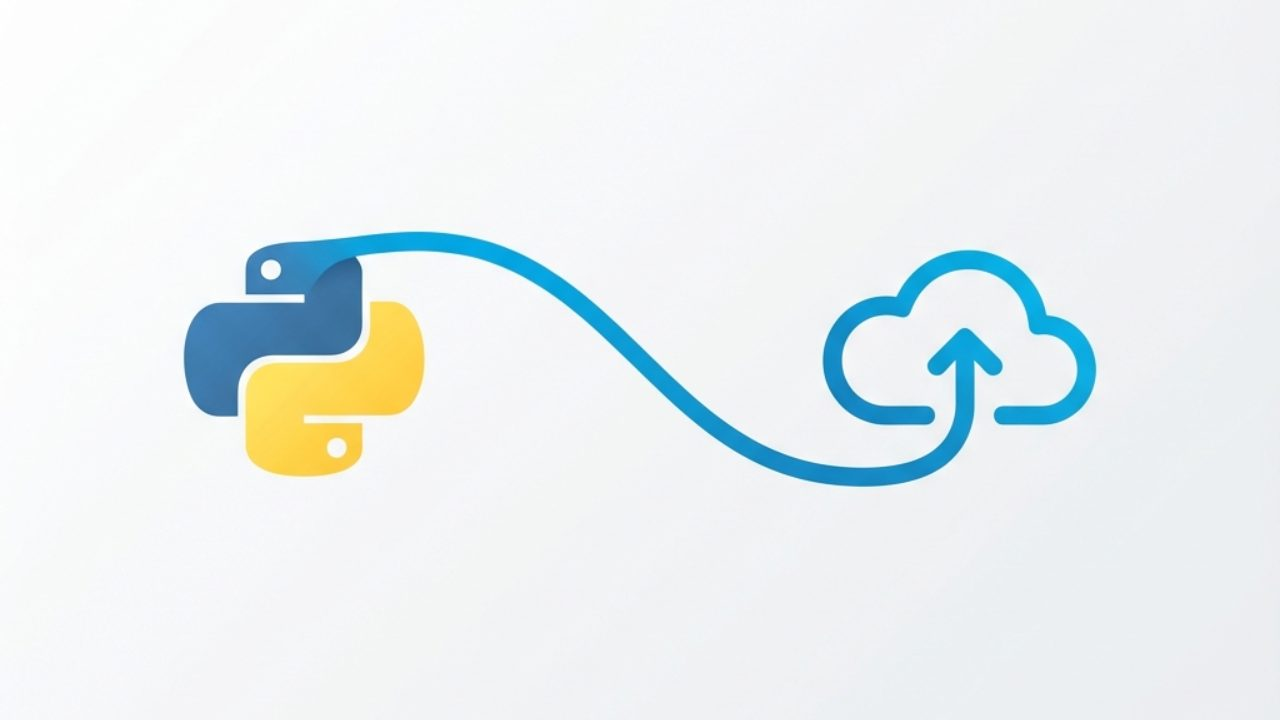
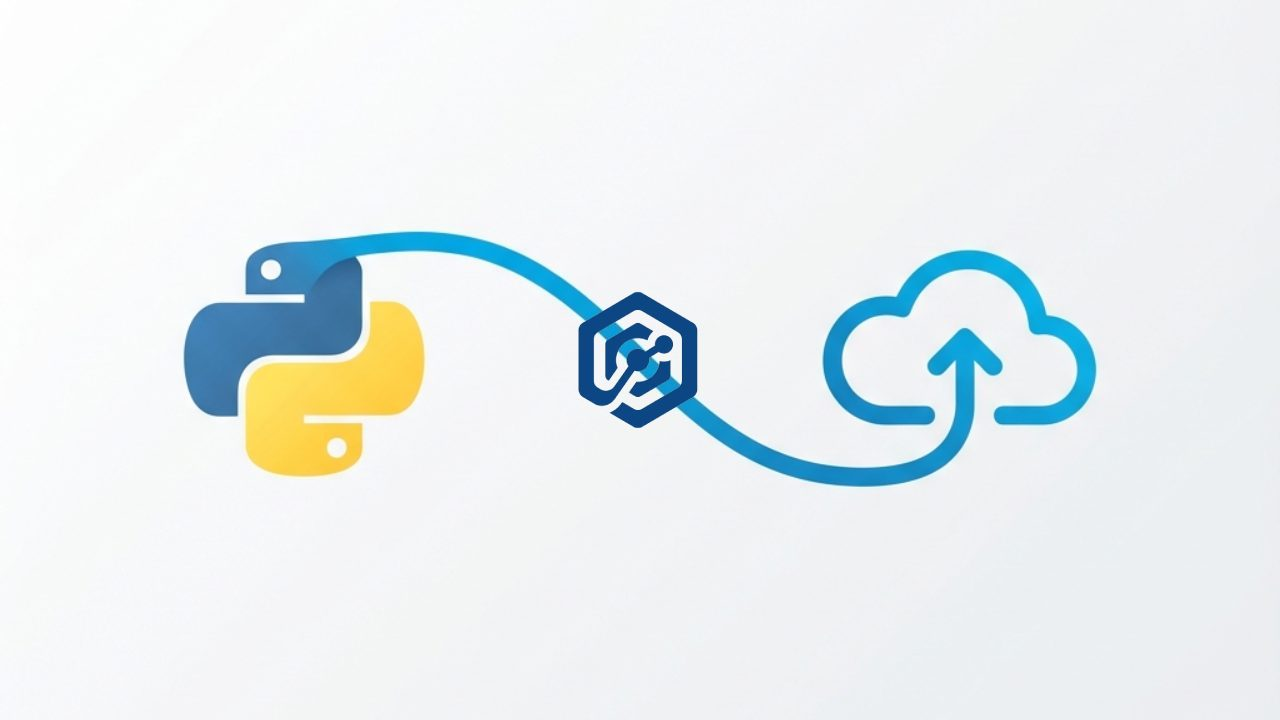
adding kineticmcp portfolio

Changed region(s): [[0.4375, 0.3972, 0.5625, 0.6111]]

diff --git a/_portfolio/kineticmcp.md b/_portfolio/kineticmcp.md
@@ -1,0 +1,135 @@
+---
+layout: portfolio
+title: "KineticMCP: Building the first AI Operating System for Salesforce"
+date: 2025-12-29
+description: "Un'architettura agentica self-hosted che trasforma Salesforce da semplice database in un Sistema d'Azione autonomo. Costruito su Model Context Protocol (MCP), Docker e Python per portare l'orchestrazione cognitiva nel cuore delle Enterprise."
+image: "/assets/images/portfolio/kineticmcp/kineticmcp.jpg"
+image-header: "/assets/images/portfolio/kineticmcp/kineticmcp.jpg"
+image-paint: "/assets/images/portfolio/kineticmcp/kineticmcp.jpg"
+tags: [AI Agents, Model Context Protocol, Salesforce, System of Action, Python, Docker, Enterprise Architecture, LLM, Automation]
+---
+
+> *Per vent'anni abbiamo trattato i CRM come archivi digitali passivi (System of Record). Li abbiamo riempiti di dati, sperando di ottenere insight. Con KineticMCP, ho voluto ribaltare il paradigma: trasformare il CRM in un attore proattivo, capace non solo di "ricordare" i dati, ma di "ragionare" su di essi e agire autonomamente.*
+
+**KineticMCP** non è un altro chatbot per il customer service e non è un semplice wrapper API. È un **Sistema Operativo Agentico** progettato per connettere la capacità di ragionamento dei Large Language Models (LLM) di nuova generazione (come Claude 3.5 Sonnet o GPT-4o) con la complessità strutturale di una org Salesforce enterprise.
+
+Il progetto nasce da una frustrazione tecnica precisa: gli strumenti di automazione esistenti (Zapier, n8n, Flow Builder) sono **deterministici**. Richiedono che un umano disegni ogni singolo step del processo. Ma il business è **caotico**. KineticMCP introduce un layer di **intelligenza adattiva** che permette al sistema di decidere *come* risolvere un problema, non solo di eseguire uno script pre-scritto.
+
+Sito Ufficiale: **[kineticmcp.github.io](https://kineticmcp.github.io){: rel="nofollow" target="_blank"}**
+
+---
+
+## 🏗 La Nuova Architettura: Dal "Record" all'"Action"
+
+La sfida ingegneristica principale era creare un ponte affidabile tra il mondo probabilistico dell'AI e quello rigido e transazionale del database relazionale.
+
+L'architettura di KineticMCP si fonda su tre pilastri che lavorano in loop continuo:
+
+1.  **Orchestrazione Cognitiva (The Brain)**: L'LLM non viene usato per "generare testo", ma per pianificare azioni. Analizza l'intento dell'utente (es: "Perché i clienti tedeschi stanno lasciando il servizio?") e lo scompone in un piano esecutivo multi-step.
+2.  **Il Traduttore Semantico (Kinetic Middleware)**: È il cuore del software. Traduce gli intenti astratti in query SOQL precise, chiamate API bulk e aggiornamenti di record, rispettando rigorosamente lo schema dati e la validazione del CRM.
+3.  **L'Esecutore Blindato (MCP Server)**: Uno strato di interfaccia standardizzato (basato sul **Model Context Protocol**) che espone le capacità di Salesforce come "Tools" sicuri e tipizzati che l'AI può invocare, garantendo che l'agente non possa mai eseguire azioni distruttive non autorizzate.
+
+---
+
+## 🛠 Deep Dive Tecnologico: Model Context Protocol (MCP)
+
+KineticMCP è una delle prime implementazioni enterprise-grade dello standard **MCP (Model Context Protocol)**. 
+
+Invece di costruire integrazioni custom per ogni modello AI, KineticMCP agisce come un **Server MCP Univerale**. Espone lo schema di Salesforce (oggetti standard, custom object, metadati) come un set di risorse e strumenti standardizzati.
+
+### Perché MCP cambia tutto?
+Prima di MCP, integrare un Agente con Salesforce richiedeva di scrivere, ad esempio, una function calling specifica per "Creare un Lead" e una per "Aggiornare un Caso". Se aggiungevi un campo custom su Salesforce, dovevi riscrivere il codice dell'agente.
+
+Con KineticMCP:
+1.  Il server esegue una **Inspection Dinamica** della Org Salesforce all'avvio (`describeGlobal` + `describeSObject`).
+2.  Mappa automaticamente tutti gli oggetti e campi visibili.
+3.  Genera in tempo reale le definizioni dei Tools per l'LLM.
+
+Se aggiungi un campo "Punteggio_Rischio__c" su Salesforce, KineticMCP lo rileva automaticamente e l'Agente AI "impara" istantaneamente che può leggere o scrivere quel campo, senza toccare una riga di codice Python.
+
+---
+
+## 🧠 Sotto il cofano: Il Core Python
+
+Il motore di KineticMCP è scritto in **Python 3.11**, ottimizzato per performance asincrone e gestione di carichi elevati.
+
+### 1. Semantic Query Engine
+Una delle innovazioni chiave è il motore di traduzione **Natural Language to SOQL**. Non si tratta di un semplice prompt engineering. Il sistema utilizza un approccio RAG (Retrieval-Augmented Generation) sullo schema stesso del database:
+- L'utente chiede: *"Trovami i clienti ad alto valore a rischio churn"*.
+- Il motore recupera i metadati rilevanti (campi come `AnnualRevenue`, `LastActivityDate`, flags come `Churn_Risk__c`).
+- Costruisce una query SOQL sintatticamente perfetta:
+  ```sql
+  SELECT Id, Name, Owner.Email FROM Account 
+  WHERE AnnualRevenue > 1000000 AND LastActivityDate < LAST_N_DAYS:90
+  ```
+- Esegue la query e restituisce i risultati in un formato JSON compresso ottimizzato per il contesto dell'LLM.
+
+### 2. Smart Bulk Handling
+L'Enterprise non lavora su 10 record, ma su 10.000. KineticMCP implementa un gestore intelligente del traffico API.
+Se l'Agente decide di dover aggiornare 5.000 record (es. "Assegna tutti i lead inattivi alla coda di Nurturing"), il middleware intercetta la richiesta REST standard e la **promuove automaticamente** alla Salesforce Bulk API v2.
+Questo garantisce che l'operazione venga eseguita in modo asincrono, senza mandare in timeout l'agente o consumare tutte le quote API giornaliere.
+
+### 3. La "Black Box" Privacy Architecture
+Un requisito fondamentale per l'adozione Enterprise è la **Data Sovereignty**.
+KineticMCP è distribuito come container **Docker**.
+- **Self-Hosted**: Il container gira nel VPC del cliente (AWS, Azure, On-premise).
+- **Zero-Knowledge**: Noi (il vendor del software) non abbiamo accesso ai dati. Il traffico fluisce esclusivamente tra la server farm del cliente, le API di Salesforce e l'endpoint dell'LLM scelto (es. Azure OpenAI privato).
+- **Stateless**: Il container non mantiene memoria persistente dei dati business; processa, agisce e dimentica.
+
+---
+
+## 🚑 Casi d'Uso Reali: Dalla Teoria all'Automazione
+
+La potenza di questo sistema si vede quando affrontiamo processi che richiedono **giudizio**, non solo calcolo.
+
+### Scenario A: Intelligent Support Triage
+*Il Problema:* Un team di supporto riceve 500 ticket al giorno. Gli agenti umani perdono ore solo per leggere l'oggetto e assegnare la priorità. Le regole "if-then" (es. "se oggetto contiene 'urgente'") falliscono perché i clienti scrivono "URGENTE" anche per un reset password.
+
+*L'approccio Kinetic:*
+1.  L'Agente legge il *contenuto semantico* e il *tono* del ticket.
+2.  Distingue tra un "Server Down" (Critico reale) e un "Non riesco a stampare" (Bassa priorità), anche se entrambi segnati come urgenti.
+3.  Esegue il routing:
+    - Se Critico: Posta immediatamente su Slack channel #dev-ops e chiama l'API PagerDuty.
+    - Se Basso: Assegna alla coda standard e invia una risposta empatica automatica.
+4.  **Risultato**: Riduzione del tempo di prima risposta (MTTR) per incidenti critici del 70%.
+
+### Scenario B: Strategic Churn Analysis
+*Il Problema:* Il Sales Director chiede: "Perché stiamo perdendo clienti nel settore Automotive?". Il CRM dice solo "Closed Lost". Le motivazioni vere sono sepolte in note non strutturate.
+
+*L'approccio Kinetic:*
+1.  L'Agente interroga tutte le Opportunity perse nel settore Automotive negli ultimi 6 mesi.
+2.  Scarica e legge le note e le email scambiate.
+3.  Clusterizza le motivazioni ricorrenti.
+4.  Genera un report: *"Il 60% dei deal è perso perché manca l'integrazione SAP, che i competitor offrono."*
+5.  Crea un Task per il Product Management: "Valutare roadmap integrazione SAP".
+6.  **Risultato**: Trasforma "dati morti" in "strategia di prodotto".
+
+---
+
+## 🛡 Sicurezza e Compliance B2B
+
+Sviluppare software che tocca dati sensibili aziendali richiede un approccio paranoico alla sicurezza.
+
+- **Non-Destructive Defaults**: Di default, il server parte in modalità "Safe Mode", dove le azioni di DELETE o UPDATE massivo richiedono una conferma esplicita "Human-in-the-loop".
+- **Audit Logging Immutabile**: Ogni singolo "pensiero" dell'agente e ogni singola chiamata API eseguita viene loggata in un formato JSON strutturato, permettendo audit forensi. Se l'AI commette un errore, possiamo tracciare esattamente *perché* ha preso quella decisione.
+- **Secret Management**: Nessuna credenziale è hardcoded. Tutto è iniettato via Variabili d'Ambiente a runtime nel container Docker, compatibile con Vault o AWS Secrets Manager.
+
+---
+
+## 🚀 Visione Futura: L'Azienda Autonoma
+
+KineticMCP è il primo passo verso un futuro dove il software non è più uno strumento che *usiamo*, ma un collega con cui *collaboriamo*.
+
+Stiamo lavorando per espandere le capacità oltre Salesforce, integrando Jira, Slack e ERP, trasformando KineticMCP in un tessuto connettivo cognitivo che attraversa l'ntera azienda. L'obiettivo non è sostituire l'uomo, ma liberarlo dalla "fatica del click", permettendogli di concentrarsi sulla strategia, la creatività e la relazione umana.
+
+La tecnologia è pronta. Le aziende che adotteranno per prime questi **Sistemi di Azione** avranno un vantaggio competitivo incolmabile rispetto a quelle ancora ferme ai Sistemi di Record.
+
+---
+
+> **Specifiche Tecniche del Progetto**
+> - **Linguaggio**: Python 3.11+ (Asyncio, Pydantic)
+> - **Protocollo**: Model Context Protocol (MCP)
+> - **Infrastruttura**: Docker, Docker Compose
+> - **Integrazioni**: Salesforce REST API, Bulk API v2, Composite API
+> - **AI Models**: Compatibile con Anthropic Claude, OpenAI GPT-4, Local LLMs (via Ollama)
+> - **License**: Proprietary Commercial (Business Source)
